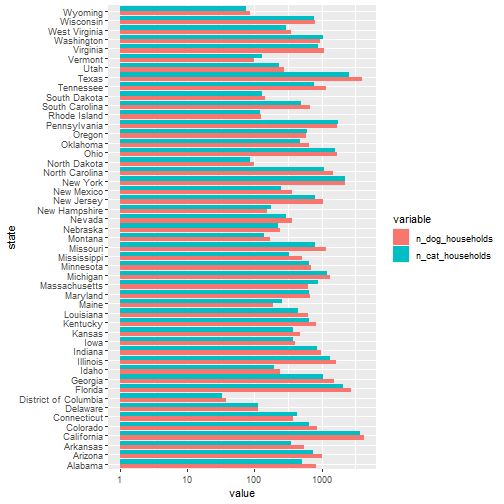
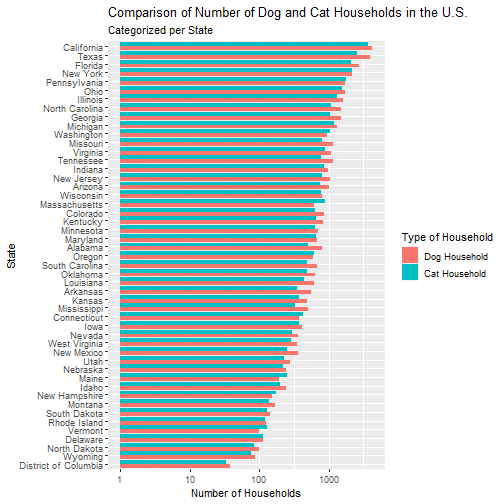
Worked on the project a bit more.

diff --git a/Independent Project/Scripts/Cats_vs_Dogs-Project.html b/Independent Project/Scripts/Cats_vs_Dogs-Project.html
@@ -23,10 +23,10 @@ class: center, middle, inverse, title-slide
 ### Mikayla Kerchen
 ]
 .institute[
-### CSUN
+### BIOL 551
 ]
 .date[
-### 2016/12/12 (updated: 2023-04-25)
+### 2016/12/12 (updated: 2023-04-27)
 ]
 
 ---
@@ -40,10 +40,6 @@ library(tidyverse)
 library(here)
 library(usmap)
 library(reshape2)
-```
-
-```
-## Warning: package 'reshape2' was built under R version 4.2.3
 ```
 
 ---
@@ -64,12 +60,16 @@ CatvDog_Data &lt;- read.csv(here("Independent Project", "Data", "cats_vs_dogs.cs
 ```
 ---
 
-# Cat Owner Percentage in the United States
+# Cat Owner Percentage in the U.S.
 
-- This is the code I used to make the plot on the next slide.
+- This plot illustrates the percentage of cat owners in the United States.
 
 --
 
+- This plot only contains data for the continental states due to lacking data for Alaska and Hawaii.
+
+--
+.pull-left[
 
 ```r
 plot_usmap(data = CatvDog_Data,           
@@ -83,32 +83,23 @@ plot_usmap(data = CatvDog_Data,
         legend.position = "right")+
   scale_fill_continuous(low = "white", high = "blue", name = "Percentage of Cat Owners")
 ```
-
-
----
-
-# Cat Owner Percentage in the United States
-
-- The plot below displays the percentage of cat owners per state in the United States.
-
---
-
-- It only includes the continental states due to lacking data from Alaska and Hawaii.
-
---
-
-.center[
-&lt;img src="Cats_vs_Dogs-Project_files/figure-html/CatPercentPlot-out-1.png" width="500" /&gt;
 ]
-
+.pull-right[
+![](Cats_vs_Dogs-Project_files/figure-html/CatPercentPlot-out-1.png)&lt;!-- --&gt;
+]
 ---
 
-# Dog Owner Percentage in the United States
+# Dog Owner Percentage in the U.S.
 
-- This is the code I used to make the plot on the next slide.
+- This plot illustrates the percentage of dog owners in the United States.
 
 --
 
+- Like the plot before, this plot only contains data for the continental states due to lacking data for Alaska and Hawaii.
+
+--
+
+.pull-left[
 
 ```r
 plot_usmap(data = CatvDog_Data,           # Plots a flat map of the US.
@@ -122,46 +113,120 @@ plot_usmap(data = CatvDog_Data,           # Plots a flat map of the US.
         legend.position = "right")+
   scale_fill_continuous(low = "white", high = "red", name = "Percentage of Dog Owners")    # Gives a gradient effect in order of how high or low the percentage is.
 ```
-
----
-
-# Dog Owner Percentage in the United States
-
-- The plot below displays the percentage of dog owners per state in the United States.
-
---
-
-- Like the plot before, this only contains the continental states due to lacking data from Alaska and Hawaii.
-
---
-
-.center[
-&lt;img src="Cats_vs_Dogs-Project_files/figure-html/DogPercentPlot-out-1.png" width="500" /&gt;
+]
+.pull.right[
+![](Cats_vs_Dogs-Project_files/figure-html/DogPercentPlot-out-1.png)&lt;!-- --&gt;
 ]
 
 ---
 
-# Comparing Number of Dog and Cat Households by State
+# Dog and Cat Households by State
+
+- This next plot is a bar plot that compares the number of dog and cat households per state.
+
+--
+
+- I ordered this plot from the larger amount of dog and cat households to the lowest.
 
 
 
+---
+
+# Dog and Cat Households by State
+
+.pull-left[
+
+```r
+CatvDog_Data_Bar %&gt;%     
+  ggplot(aes(x = reorder(state, value), # Reorders the plot from most to least value
+             y = value))+
+  geom_bar(aes(fill = variable), stat = "identity", position = "dodge")+
+  scale_y_log10()+  # Scales the y-axis by log10
+  coord_flip()+   # Flips the coordinate plane
+  labs(x = "State",   # Gives pretty labels to the plot
+       y = "Number of Households",
+       fill = "Type of Household",
+       title = "Comparison of Number of Dog and Cat Households in the U.S.",
+       subtitle = "Categorized per State")+
+  scale_fill_discrete(labels = c('Dog Household', 'Cat Household'))+   # Re-labels the legend with prettier names (ex: instead of 'n_dog_households' and 'n_cat_households')
+  theme_bw()+   # Standard black and white theme.
+  theme(plot.title = element_text(size = 16,     # Changes the size, color, face, and adjusts the title and subtitle.
+                                  color = "black",
+                                  face = 'bold',
+                                  hjust = 0.5),
+        plot.subtitle = element_text(size = 14,
+                                     color = "black",
+                                     face = 'italic',
+                                     hjust = 0.5),
+        axis.title = element_text(size = 12,      # Chnages the size and color of the axis and legend titles.
+                                  color = "black"),
+        legend.title = element_text(size = 12,
+                                    color = "black"))
+```
+]
+
+.pull-right[
+![](Cats_vs_Dogs-Project_files/figure-html/CatvDogBar-out-1.png)&lt;!-- --&gt;
+]
+
+---
+
+# Dog and Cat Households by State
+
+- As expected, the states with larger populations have the larger amount of both dog and cat households.
+
+--
+
+  - This could have to do with some states having a specific amount of dogs and cats that each household can have.
+
+--
+
+  - Usually goes by county.
+
+--
+
+- From the plot, it appears that more household have dogs compared to cats.
+
+--
+
+  - Except for a few states: 
+
+--
+
+  - Massachusetts
+    
+--
+
+  - Connecticut
+
+--
+
+  - Maine
+
+--
+
+  - and some other mainly east coast states
+  
+--
+---
+
+# Statistics for Dogs vs. Cats
 
 
 ```r
-CatvDog_Data_Bar %&gt;%
-  ggplot(aes(x = state,
-             y = value))+
-  geom_bar(aes(fill = variable), stat = "identity", position = "dodge")+
-  scale_y_log10()+
-  coord_flip()
+CatvDog_Data_Stats &lt;- CatvDog_Data %&gt;%
+  mutate(mean_cat_population = mean(cat_population),
+         mean_dog_population = mean(dog_population),
+         avg_dogs_per_household = mean(avg_dogs_per_household),
+         avg_cats_per_household = mean(avg_cats_per_household))
 ```
 
-![](Cats_vs_Dogs-Project_files/figure-html/unnamed-chunk-4-1.png)&lt;!-- --&gt;
 
     </textarea>
 <style data-target="print-only">@media screen {.remark-slide-container{display:block;}.remark-slide-scaler{box-shadow:none;}}</style>
 <script src="https://remarkjs.com/downloads/remark-latest.min.js"></script>
 <script>var slideshow = remark.create({
+"ratio": "16:9",
 "highlightStyle": "github",
 "highlightLines": true,
 "countIncrementalSlides": false
